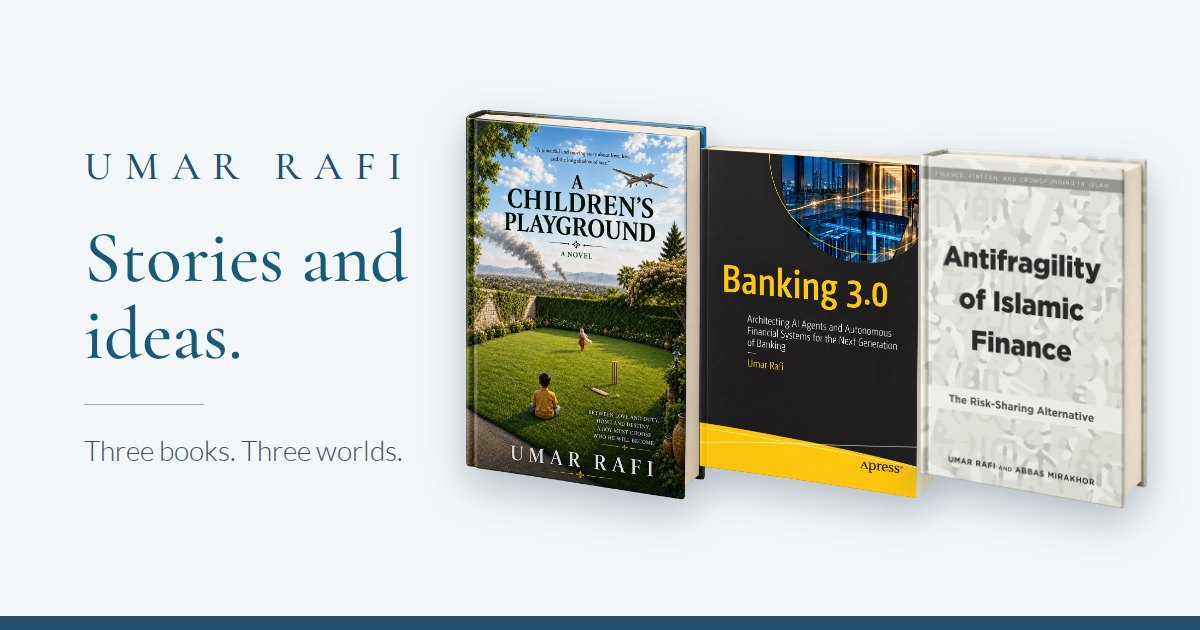
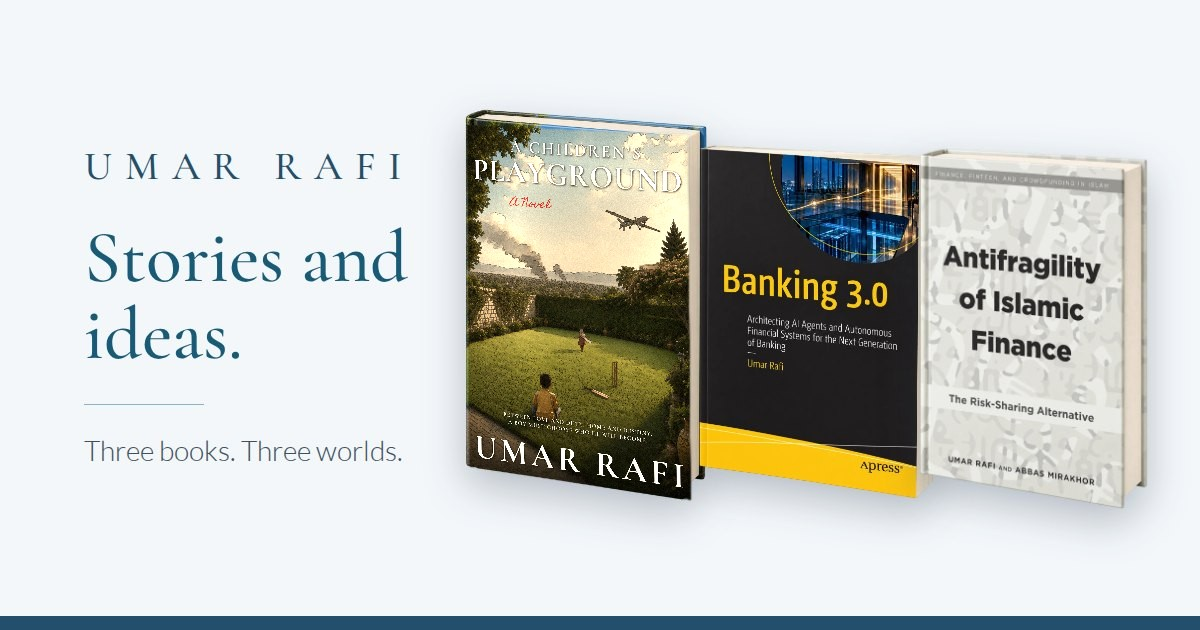
A Children's Playground: painted cover on book mockup and share image
Claude-Session: https://claude.ai/code/session_01NJvoN1pUMfYqd9199F7f1B

Changed region(s): [[0.37, 0.181, 0.5858, 0.7841]]

diff --git a/books.html b/books.html
@@ -139,7 +139,7 @@ html body.books-layout .book-gallery-card .book-description-button{margin-top:au
 
 
 
-<main class="books-page books-gallery-page"><header class="books-page-heading"><a class="identity-return" href="index.html#home-roles">← Back to Home</a><p class="identity-context">Author</p><h1>Stories and ideas.</h1><div class="about-rule"></div><p class="books-lead">Three books. Three worlds.</p></header><div class="book-gallery"><article class="book-gallery-card"><button class="book-graphic-button" type="button" data-book="a-childrens-playground" aria-controls="description-a-childrens-playground" aria-expanded="false" aria-haspopup="dialog" aria-label="Read about A Children’s Playground"><img src="images/books/a-childrens-playground-mockup.webp" alt="A Children’s Playground book mockup" width="1024" height="1536"></button><p class="meta">LITERARY FICTION · SUMMER 2027</p><h2>A Children’s Playground</h2><button class="book-description-button" type="button" data-book="a-childrens-playground" aria-controls="description-a-childrens-playground" aria-expanded="false" aria-haspopup="dialog">About the book</button></article><article class="book-gallery-card"><button class="book-graphic-button" type="button" data-book="banking-3" aria-controls="description-banking-3" aria-expanded="false" aria-haspopup="dialog" aria-label="Read about Banking 3.0"><img src="images/books/banking-3-mockup.webp" alt="Banking 3.0 book mockup" width="1042" height="1510"></button><p class="meta">TECHNOLOGY · DECEMBER 2026</p><h2>Banking 3.0</h2><button class="book-description-button" type="button" data-book="banking-3" aria-controls="description-banking-3" aria-expanded="false" aria-haspopup="dialog">About the book</button></article><article class="book-gallery-card"><button class="book-graphic-button" type="button" data-book="antifragility" aria-controls="description-antifragility" aria-expanded="false" aria-haspopup="dialog" aria-label="Read about Antifragility of Islamic Finance"><img src="images/books/antifragility-mockup.webp" alt="Antifragility of Islamic Finance book mockup" width="1024" height="1536"></button><p class="meta">FINANCE · PUBLISHED 2018</p><h2>Antifragility of Islamic Finance</h2><button class="book-description-button" type="button" data-book="antifragility" aria-controls="description-antifragility" aria-expanded="false" aria-haspopup="dialog">About the book</button></article></div><dialog class="book-dialog" id="book-dialog" aria-label="About the book"><button type="button" class="book-dialog-close" aria-label="Close book description">×</button><section id="description-a-childrens-playground" class="book-gallery-description" aria-labelledby="a-childrens-playground-dialog-title" hidden><img class="book-dialog-cover" src="images/books/a-childrens-playground-mockup.webp" alt="" width="240" height="360"><div class="book-dialog-copy"><p class="meta">Forthcoming · Summer 2027</p><h2 id="a-childrens-playground-dialog-title"><a class="book-title-link" href="https://book-dev.achildrensplayground.pages.dev/">A Children’s Playground</a></h2><p>A Children’s Playground is a coming-of-age novel set against the backdrop of the Global War on Terror, exploring how love, loss, duty, and war shape the moral journey of one young man. Spanning continents, cultures, and religions in an alternate contemporary setting, it examines the timeless themes of class, family, faith, identity, and fate, asking what it truly means to become the person one is destined to be.</p><a class="text-link book-dialog-more" href="https://book-dev.achildrensplayground.pages.dev/">Read more about the book <span aria-hidden="true">→</span></a></div></section><section id="description-banking-3" class="book-gallery-description" aria-labelledby="banking-3-dialog-title" hidden><img class="book-dialog-cover" src="images/books/banking-3-mockup.webp" alt="" width="240" height="360"><div class="book-dialog-copy"><p class="meta">Forthcoming · December 2026</p><h2 id="banking-3-dialog-title"><a class="book-title-link" href="https://www.banking3.com/">Banking 3.0</a></h2><p>Banking has always been built on trust. For most of its history, that trust lived in people, and in the rules and systems built to remember what happened and to hold it true. Artificial intelligence introduces something different: software that can increasingly interpret, reason, decide, and act.</p><a class="text-link book-dialog-more" href="https://www.banking3.com/">Read more about the book <span aria-hidden="true">→</span></a></div></section><section id="description-antifragility" class="book-gallery-description" aria-labelledby="antifragility-dialog-title" hidden><img class="book-dialog-cover" src="images/books/antifragility-mockup.webp" alt="" width="240" height="360"><div class="book-dialog-copy"><p class="meta">Published · 2018</p><h2 id="antifragility-dialog-title"><a href="antifragility.html">Antifragility of Islamic Finance</a></h2><p><em>Antifragility of Islamic Finance: The Risk-Sharing Alternative</em> explains how risk-sharing, as defined under Islamic finance, makes financial systems antifragile. It highlights the benefits of 100% equity-based finance over debt-based finance.</p><a class="text-link book-dialog-more" href="antifragility.html">Read more about the book <span aria-hidden="true">→</span></a></div></section></dialog></main><footer id="contact" class="book-landing-footer"><div><a class="wordmark author-wordmark" href="index.html" aria-label="Umar Rafi home"><svg class="ur-logo" viewBox="0 0 72 74" aria-hidden="true" fill="none"><path d="M9 9v34c0 15 8 23 20 23s20-8 20-23V9" /><path d="M29 66V9h14c15 0 22 8 22 18S58 44 43 44H29m13 0 24 23" /></svg><span class="author-name">UMAR RAFI</span></a></div><p class="footer-meta"><a class="footer-blog-link" href="blog.html">Blog</a><span class="footer-sep" aria-hidden="true">·</span>© <span id="year">2026</span> Umar Rafi</p></footer>
+<main class="books-page books-gallery-page"><header class="books-page-heading"><a class="identity-return" href="index.html#home-roles">← Back to Home</a><p class="identity-context">Author</p><h1>Stories and ideas.</h1><div class="about-rule"></div><p class="books-lead">Three books. Three worlds.</p></header><div class="book-gallery"><article class="book-gallery-card"><button class="book-graphic-button" type="button" data-book="a-childrens-playground" aria-controls="description-a-childrens-playground" aria-expanded="false" aria-haspopup="dialog" aria-label="Read about A Children’s Playground"><img src="images/books/a-childrens-playground-mockup.webp?v=painted" alt="A Children’s Playground book mockup" width="1024" height="1536"></button><p class="meta">LITERARY FICTION · SUMMER 2027</p><h2>A Children’s Playground</h2><button class="book-description-button" type="button" data-book="a-childrens-playground" aria-controls="description-a-childrens-playground" aria-expanded="false" aria-haspopup="dialog">About the book</button></article><article class="book-gallery-card"><button class="book-graphic-button" type="button" data-book="banking-3" aria-controls="description-banking-3" aria-expanded="false" aria-haspopup="dialog" aria-label="Read about Banking 3.0"><img src="images/books/banking-3-mockup.webp" alt="Banking 3.0 book mockup" width="1042" height="1510"></button><p class="meta">TECHNOLOGY · DECEMBER 2026</p><h2>Banking 3.0</h2><button class="book-description-button" type="button" data-book="banking-3" aria-controls="description-banking-3" aria-expanded="false" aria-haspopup="dialog">About the book</button></article><article class="book-gallery-card"><button class="book-graphic-button" type="button" data-book="antifragility" aria-controls="description-antifragility" aria-expanded="false" aria-haspopup="dialog" aria-label="Read about Antifragility of Islamic Finance"><img src="images/books/antifragility-mockup.webp" alt="Antifragility of Islamic Finance book mockup" width="1024" height="1536"></button><p class="meta">FINANCE · PUBLISHED 2018</p><h2>Antifragility of Islamic Finance</h2><button class="book-description-button" type="button" data-book="antifragility" aria-controls="description-antifragility" aria-expanded="false" aria-haspopup="dialog">About the book</button></article></div><dialog class="book-dialog" id="book-dialog" aria-label="About the book"><button type="button" class="book-dialog-close" aria-label="Close book description">×</button><section id="description-a-childrens-playground" class="book-gallery-description" aria-labelledby="a-childrens-playground-dialog-title" hidden><img class="book-dialog-cover" src="images/books/a-childrens-playground-mockup.webp?v=painted" alt="" width="240" height="360"><div class="book-dialog-copy"><p class="meta">Forthcoming · Summer 2027</p><h2 id="a-childrens-playground-dialog-title"><a class="book-title-link" href="https://book-dev.achildrensplayground.pages.dev/">A Children’s Playground</a></h2><p>A Children’s Playground is a coming-of-age novel set against the backdrop of the Global War on Terror, exploring how love, loss, duty, and war shape the moral journey of one young man. Spanning continents, cultures, and religions in an alternate contemporary setting, it examines the timeless themes of class, family, faith, identity, and fate, asking what it truly means to become the person one is destined to be.</p><a class="text-link book-dialog-more" href="https://book-dev.achildrensplayground.pages.dev/">Read more about the book <span aria-hidden="true">→</span></a></div></section><section id="description-banking-3" class="book-gallery-description" aria-labelledby="banking-3-dialog-title" hidden><img class="book-dialog-cover" src="images/books/banking-3-mockup.webp" alt="" width="240" height="360"><div class="book-dialog-copy"><p class="meta">Forthcoming · December 2026</p><h2 id="banking-3-dialog-title"><a class="book-title-link" href="https://www.banking3.com/">Banking 3.0</a></h2><p>Banking has always been built on trust. For most of its history, that trust lived in people, and in the rules and systems built to remember what happened and to hold it true. Artificial intelligence introduces something different: software that can increasingly interpret, reason, decide, and act.</p><a class="text-link book-dialog-more" href="https://www.banking3.com/">Read more about the book <span aria-hidden="true">→</span></a></div></section><section id="description-antifragility" class="book-gallery-description" aria-labelledby="antifragility-dialog-title" hidden><img class="book-dialog-cover" src="images/books/antifragility-mockup.webp" alt="" width="240" height="360"><div class="book-dialog-copy"><p class="meta">Published · 2018</p><h2 id="antifragility-dialog-title"><a href="antifragility.html">Antifragility of Islamic Finance</a></h2><p><em>Antifragility of Islamic Finance: The Risk-Sharing Alternative</em> explains how risk-sharing, as defined under Islamic finance, makes financial systems antifragile. It highlights the benefits of 100% equity-based finance over debt-based finance.</p><a class="text-link book-dialog-more" href="antifragility.html">Read more about the book <span aria-hidden="true">→</span></a></div></section></dialog></main><footer id="contact" class="book-landing-footer"><div><a class="wordmark author-wordmark" href="index.html" aria-label="Umar Rafi home"><svg class="ur-logo" viewBox="0 0 72 74" aria-hidden="true" fill="none"><path d="M9 9v34c0 15 8 23 20 23s20-8 20-23V9" /><path d="M29 66V9h14c15 0 22 8 22 18S58 44 43 44H29m13 0 24 23" /></svg><span class="author-name">UMAR RAFI</span></a></div><p class="footer-meta"><a class="footer-blog-link" href="blog.html">Blog</a><span class="footer-sep" aria-hidden="true">·</span>© <span id="year">2026</span> Umar Rafi</p></footer>
 <script src="script.js?v=mobile-entrance-fix-96"></script>
 <script>
 (()=>{

diff --git a/index.html b/index.html
@@ -327,7 +327,7 @@ html.athens-fade.athens-in .art-hero>img,html.athens-fade.athens-in .athens-over
 <script id="athens-fade-js">(function(){var r=document.documentElement;if(!r.classList.contains('athens-fade'))return;var img=document.querySelector('.art-hero>img'),done=false;
 function show(){if(done)return;done=true;requestAnimationFrame(function(){r.classList.add('athens-in')})}
 if(!img||img.complete)show();else{img.addEventListener('load',show);img.addEventListener('error',show)}setTimeout(show,3000)})();</script>
-<section class="home-featured-book" aria-labelledby="featured-novel-title"><button class="painting-peek-toggle athens-game-open" type="button" aria-haspopup="dialog" aria-controls="athens-game">Explore the painting ↓</button><a class="featured-cover" href="https://book-dev.achildrensplayground.pages.dev/"><img src="images/books/a-childrens-playground-mockup.webp" alt="A Children’s Playground book" width="1024" height="1536" loading="lazy"></a><div><h2 id="featured-novel-title"><a href="https://book-dev.achildrensplayground.pages.dev/">A Children’s Playground</a><span class="featured-inline-date"> · Coming Summer 2027</span></h2><p>Between love and duty, home and destiny, a boy must choose who he will become.</p></div><button type="button" class="notify-open featured-notify" data-notify="acp">Be the first to know →</button></section>
+<section class="home-featured-book" aria-labelledby="featured-novel-title"><button class="painting-peek-toggle athens-game-open" type="button" aria-haspopup="dialog" aria-controls="athens-game">Explore the painting ↓</button><a class="featured-cover" href="https://book-dev.achildrensplayground.pages.dev/"><img src="images/books/a-childrens-playground-mockup.webp?v=painted" alt="A Children’s Playground book" width="1024" height="1536" loading="lazy"></a><div><h2 id="featured-novel-title"><a href="https://book-dev.achildrensplayground.pages.dev/">A Children’s Playground</a><span class="featured-inline-date"> · Coming Summer 2027</span></h2><p>Between love and duty, home and destiny, a boy must choose who he will become.</p></div><button type="button" class="notify-open featured-notify" data-notify="acp">Be the first to know →</button></section>
 <div class="home-cloud-background"><section class="home-about">
 <div class="home-about-inner">
 <h2 class="profile-heading">A life across worlds.</h2>
